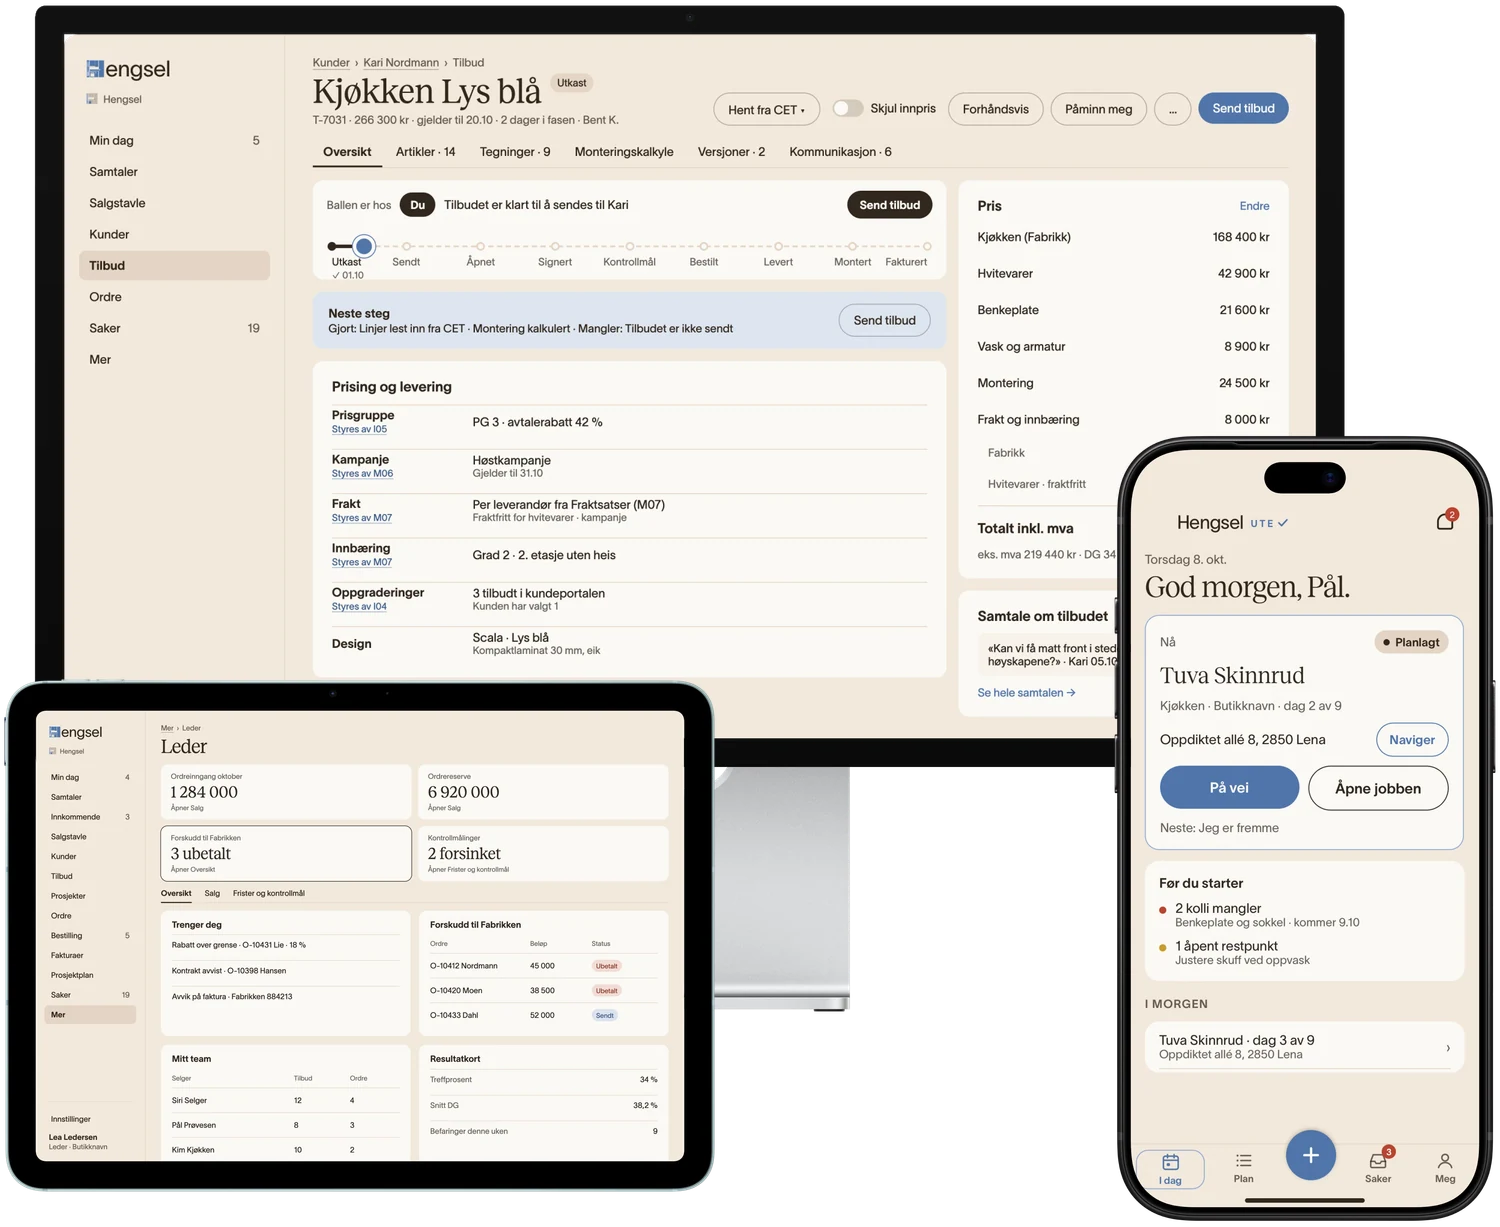
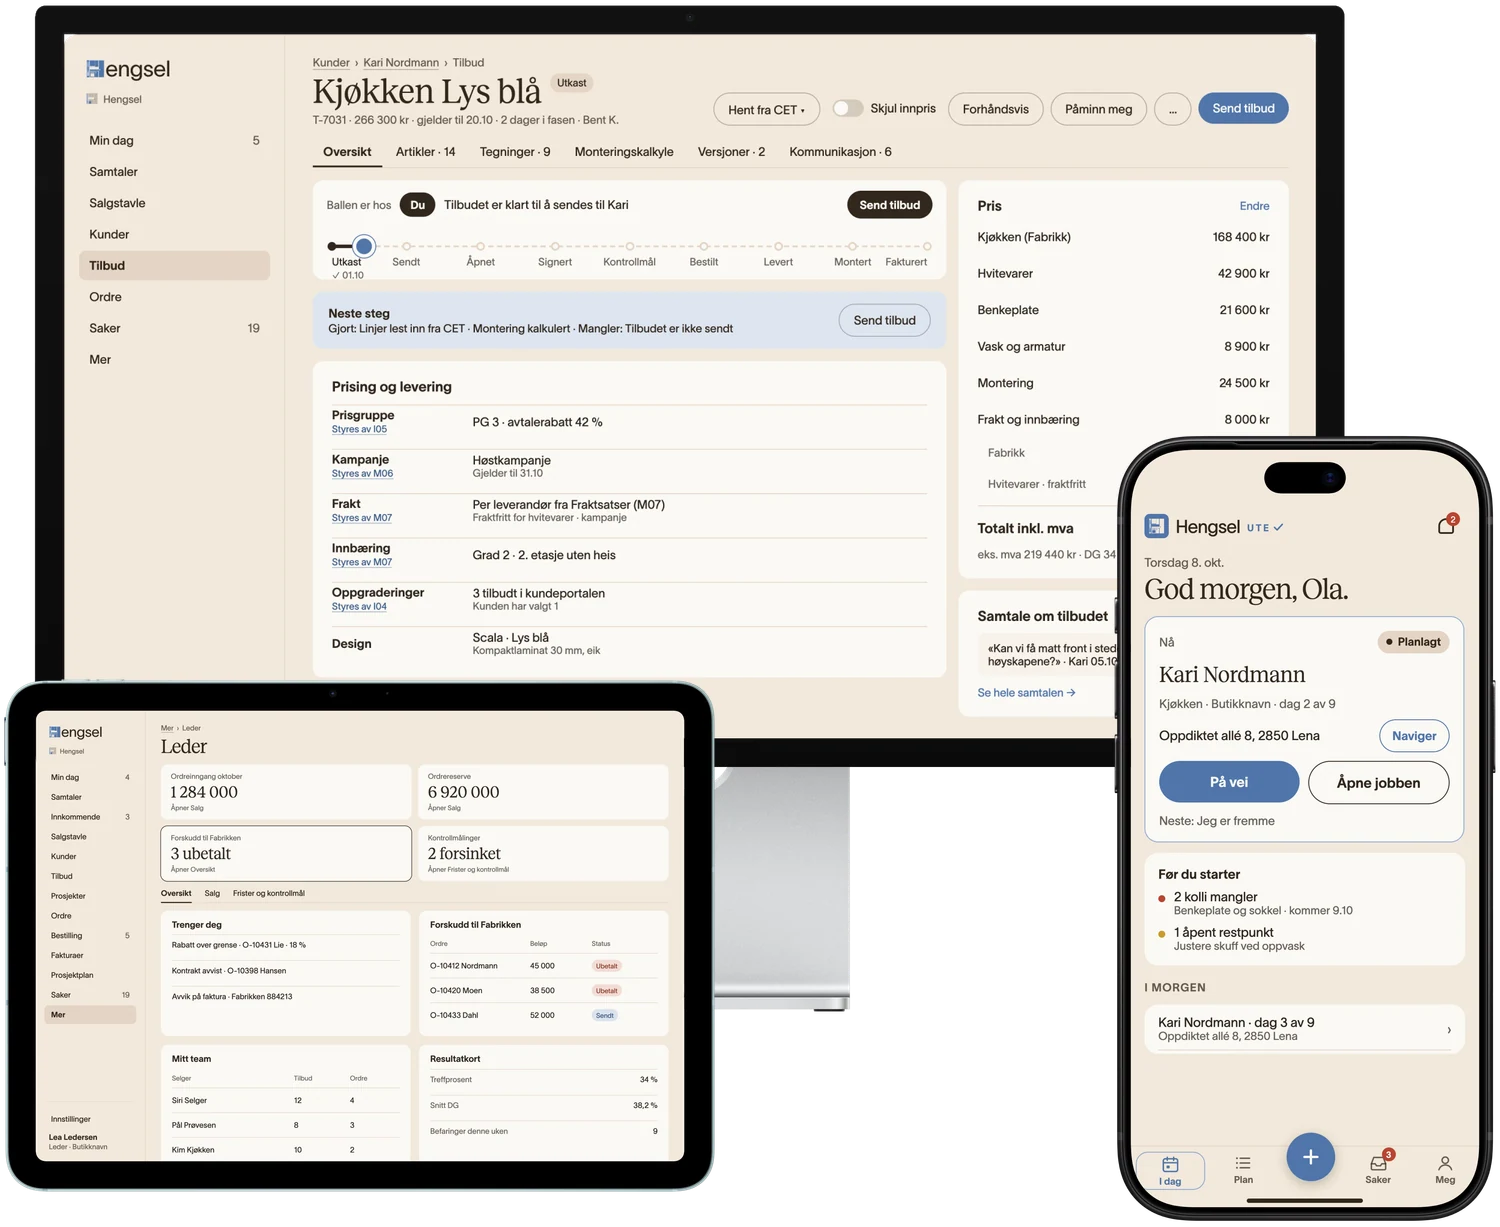
vis: pakke v5 (11.10): crm-montasje (montasjeplan), ute-i-dag og ute-ks
Ordrens reise scene 7 viser crm-montasje (v5). Montasjeplanen er tilbake i Prøv CRM («Se montasjeplanen»)
og Firmaleder. ute-i-dag og ute-ks er v5 (Kari Nordmann og Ola, hele logoen).

Claude-Session: https://claude.ai/code/session_01XUX8fkzkTEqWReZM1iEFk5

diff --git a/sites/vis/src/crm/index.html b/sites/vis/src/crm/index.html
@@ -44,12 +44,12 @@
       <li data-k="avvik"><span>1</span>Løs avviket fra leverandøren</li>
       <li data-k="faktura"><span>2</span>Godkjenn eller avvis fraktavviket</li>
       <li data-k="cet"><span>3</span>Importer et tilbud fra CET</li>
-      <li data-k="plan"><span>4</span>Se kontrollmålet</li>
+      <li data-k="plan"><span>4</span>Se montasjeplanen</li>
     </ol>
     <div class="tabs" id="enhet" role="group" aria-label="Enhet"><button type="button" data-e="pc" class="on" aria-pressed="true">PC</button><button type="button" data-e="ipad" aria-pressed="false">iPad</button><button type="button" data-e="tlf" aria-pressed="false">Telefon</button></div>
   </div>
   <div class="enhet" data-enhet="pc">
-    <div class="pc-ramme" id="pc" data-bilder="crm-min-dag,crm-bestilling,crm-tilbud,crm-tilbud-kunde,crm-ordre-kontrollmal" data-alt="Hengsel CRM på PC"><div class="skjermkant"><div class="skjerm"></div></div><span class="stang" aria-hidden="true"></span><span class="fot" aria-hidden="true"></span></div>
+    <div class="pc-ramme" id="pc" data-bilder="crm-min-dag,crm-bestilling,crm-tilbud,crm-tilbud-kunde,crm-montasje" data-alt="Hengsel CRM på PC"><div class="skjermkant"><div class="skjerm"></div></div><span class="stang" aria-hidden="true"></span><span class="fot" aria-hidden="true"></span></div>
   </div>
   <div class="enhet" data-enhet="ipad" hidden>
     <div class="ipad-ramme" id="ipad" data-bilder="crm-ipad-leder,crm-ipad-kontrollmal,crm-ipad-belastninger,crm-ipad-innstillinger" data-alt="Hengsel CRM på iPad: leder, kontrollmål, belastninger og innstillinger"><div class="skjerm"></div></div>

diff --git a/sites/vis/src/firmaleder/index.html b/sites/vis/src/firmaleder/index.html
@@ -55,7 +55,7 @@
     <div class="scene">
       <div class="tabs" id="enhet" role="group" aria-label="Enhet"><button type="button" data-e="pc" class="on" aria-pressed="true">PC</button><button type="button" data-e="ipad" aria-pressed="false">iPad</button><button type="button" data-e="tlf" aria-pressed="false">Telefon</button></div>
       <div class="enhet" data-enhet="pc">
-        <div class="pc-ramme" id="pc" data-bilder="crm-resultater,crm-salgstavla,crm-saker,crm-moduler" data-alt="Hengsel CRM på PC: leder, salg, montasje og belastninger"><div class="skjermkant"><div class="skjerm"></div></div><span class="stang" aria-hidden="true"></span><span class="fot" aria-hidden="true"></span></div>
+        <div class="pc-ramme" id="pc" data-bilder="crm-resultater,crm-salgstavla,crm-montasje,crm-saker,crm-moduler" data-alt="Hengsel CRM på PC: leder, salg, montasje og belastninger"><div class="skjermkant"><div class="skjerm"></div></div><span class="stang" aria-hidden="true"></span><span class="fot" aria-hidden="true"></span></div>
       </div>
       <div class="enhet" data-enhet="ipad" hidden>
         <div class="ipad-ramme" id="ipad" data-bilder="crm-ipad-leder,crm-ipad-belastninger" data-alt="Hengsel CRM på iPad: leder og belastninger"><div class="skjerm"></div></div>

diff --git a/sites/vis/src/firmaleder/side.js b/sites/vis/src/firmaleder/side.js
@@ -7,8 +7,8 @@ Skjermbilder.guide({guide:$('guide'),reset:$('reset'),velger:velger,forste:'pc',
   start:function(){$('log').innerHTML='';log('Montasjeleder','sendte jobben LI-10087 til Demo Montasje. Svarfrist 48 timer.')},
   steg:{
     se:{enhet:'pc',vis:[V.pc,0]},
-    svar:{enhet:'pc',vis:[V.pc,2],logg:[['Hengsel','Demo Montasje <b>aksepterte</b> jobben LI-10087.'],['CRM','Montasjeplanen viser jobben som akseptert. Montør mangler fortsatt.']]},
-    mont:{enhet:'pc',vis:[V.pc,1],logg:[['Hengsel','Tomas K. er satt på jobben og har fått varsel.'],['CRM','Ordre 10087 er nå <b>Klar for montør</b>. Selgeren ser hvem som kommer.']]},
-    uke:{enhet:'pc',vis:[V.pc,1]}
+    svar:{enhet:'pc',vis:[V.pc,3],logg:[['Hengsel','Demo Montasje <b>aksepterte</b> jobben LI-10087.'],['CRM','Montasjeplanen viser jobben som akseptert. Montør mangler fortsatt.']]},
+    mont:{enhet:'pc',vis:[V.pc,2],logg:[['Hengsel','Tomas K. er satt på jobben og har fått varsel.'],['CRM','Ordre 10087 er nå <b>Klar for montør</b>. Selgeren ser hvem som kommer.']]},
+    uke:{enhet:'pc',vis:[V.pc,2]}
   }});
 })();

diff --git a/sites/vis/src/reise/index.html b/sites/vis/src/reise/index.html
@@ -127,7 +127,7 @@
   <main class="stage" id="stage">
     <section class="card pane" aria-label="Det selgeren ser">
       <div class="pane-h"><h2 class="eyebrow">Selgeren ser</h2><span id="where"></span></div>
-      <div class="enhet" data-enhet="pc"><div class="pc-ramme" id="pc" data-bilder="crm-tilbud,crm-tilbud-kunde,crm-ordre-kontrollmal,crm-etterkalkyle" data-ingen-nav data-alt="Hengsel CRM på PC"><div class="skjermkant"><div class="skjerm"></div></div><span class="stang" aria-hidden="true"></span><span class="fot" aria-hidden="true"></span></div></div>
+      <div class="enhet" data-enhet="pc"><div class="pc-ramme" id="pc" data-bilder="crm-tilbud,crm-tilbud-kunde,crm-ordre-kontrollmal,crm-montasje,crm-etterkalkyle" data-ingen-nav data-alt="Hengsel CRM på PC"><div class="skjermkant"><div class="skjerm"></div></div><span class="stang" aria-hidden="true"></span><span class="fot" aria-hidden="true"></span></div></div>
       <div class="order" hidden>
         <div class="order-h"><b id="ohT"></b><small id="ohS"></small></div>
         <div class="rows" id="rows"></div>

diff --git a/sites/vis/src/reise/side.js b/sites/vis/src/reise/side.js
@@ -5,7 +5,7 @@
   var cur=1,playing=false,timers=[],anims=[],nodes=[],autoT=null;
   /* Skjermbilde per scene (CRM_v4, alle på PC): tegning → tilbudslista, tilbud/signering → tilbud og kunde, bestilling/bekreftelse/endring →
      ordre og kontrollmål, levering og montasje → Mer › Montasje › Kontrollmål, faktura → etterkalkyle for én ordre */
-  var V=Skjermbilder.alle(),BILDE=[['pc',0],['pc',1],['pc',1],['pc',2],['pc',2],['pc',2],['pc',2],['pc',3]];
+  var V=Skjermbilder.alle(),BILDE=[['pc',0],['pc',1],['pc',1],['pc',2],['pc',2],['pc',2],['pc',3],['pc',4]];
   function bilde(n){var b=BILDE[n-1];[].forEach.call(document.querySelectorAll('.pane [data-enhet]'),function(w){w.hidden=w.dataset.enhet!==b[0]});V[b[0]].vis(b[1])}
 
   var HEAD_LI={t:'Ordre 10087',s:'Hanne Liksomlien · Lillehammer · montasje uke 46'};

diff --git a/sites/vis/README.md b/sites/vis/README.md
@@ -8,13 +8,13 @@ Alle skjermbilder av løsningen på vis.hengsel.no kommer fra **designfilene i C
 
 | Rom | Studio Display | iPad | iPhone |
 |---|---|---|---|
-| Prøv CRM | `crm-min-dag` → `crm-bestilling` → `crm-tilbud` → `crm-tilbud-kunde` → `crm-ordre-kontrollmal` (steg 1 / 2 / 3 / 4 = bilde 1 / 2 / 4 / 5; «Se kontrollmålet» viser `crm-ordre-kontrollmal`) | `crm-ipad-leder` → `crm-ipad-kontrollmal` → `crm-ipad-belastninger` → `crm-ipad-innstillinger` | `crm-tlf-ordre` |
-| Firmaleder | `crm-resultater` → `crm-salgstavla` → `crm-saker` → `crm-moduler` (steg 1 = bilde 1, 2 = 3, 3 og 4 = 2) | `crm-ipad-leder`, `crm-ipad-belastninger` | `crm-tlf-min-dag`, `crm-tlf-kundekort` |
+| Prøv CRM | `crm-min-dag` → `crm-bestilling` → `crm-tilbud` → `crm-tilbud-kunde` → `crm-montasje` (steg 1 / 2 / 3 / 4 = bilde 1 / 2 / 4 / 5; «Se montasjeplanen» viser `crm-montasje`, v5) | `crm-ipad-leder` → `crm-ipad-kontrollmal` → `crm-ipad-belastninger` → `crm-ipad-innstillinger` | `crm-tlf-ordre` |
+| Firmaleder | `crm-resultater` → `crm-salgstavla` → `crm-montasje` → `crm-saker` → `crm-moduler` (steg 1 = bilde 1, 2 = 4, 3 og 4 = 3) | `crm-ipad-leder`, `crm-ipad-belastninger` | `crm-tlf-min-dag`, `crm-tlf-kundekort` |
 | Montørappen (Hengsel Ute) | – | `ute-ipad-i-dag`, `ute-ipad-ks` | `ute-i-dag` → `ute-jobb-under` → `ute-ks` → `ute-ks-kamera` → `ute-avvik` → `ute-punkter` → `ute-punktkort` → `ute-ferdig` → `ute-typeskilt` (steg: 2, 3, 5, 8) |
 | Tegningen | `crm-mal-skisser` (steg 4) | `ute-ipad-bildeverktoy` (steg 3) | `ute-laser` (steg 1, 2, 5) |
 | Kundens Min side | PC-bryter: `kundeportal-pc` → `crm-tilbud-kunde` (v4) | – | Mobil-bryter: `kundeportal-k03` → `portal-tilbud` → `k06` → `k08` → `portal-levering` → `portal-montering` → `portal-fdv`; stegene viser k06 (tilvalg), k08 (godkjenn), levering (K10) og FDV (K14, «Meld en feil»), PC følger med |
 | Kundens reise | – | – | `kundeportal-k03` → `portal-tilbud` → `k06` → `k08` i karusellen; stegene viser k03 (1), k08 (2, kjøpsavtalen), k06 (3–4, oppgraderinger), `portal-levering` (5), `portal-montering` (6), `portal-fdv` (7–8); varselet glir inn oppå |
-| Ordrens reise («Selgeren ser», alle på PC) | scene 1 `crm-tilbud`, 2–3 `crm-tilbud-kunde`, 4–6 `crm-ordre-kontrollmal`, 7 `crm-ordre-kontrollmal` (nabobildet), 8 `crm-etterkalkyle` | – | – |
+| Ordrens reise («Selgeren ser», alle på PC) | scene 1 `crm-tilbud`, 2–3 `crm-tilbud-kunde`, 4–6 `crm-ordre-kontrollmal`, 7 `crm-montasje` (v5), 8 `crm-etterkalkyle` | – | – |
 | Romkort og flater på forsiden | ferdig sammensatte bilder av enhet + skjermbilde (`src/img/rom-*.webp`, `flate-*.webp`, `hero.webp`), se «Apple-rammer» |  |  |
 
 ### Apple-rammer (pakke 10.10: `CRM_v4.zip`, `INSTRUKS.md`)
@@ -30,7 +30,7 @@ Alle skjermbilder vises i Apples Product Bezels (`src/assets/rammer/*.webp`, gje
 
 - Rammene er minst 200 px høye, også på mobil (de faller ikke lenger bort). Tekst står ved siden av, ikke oppå. Flere enheter sammen i riktig størrelsesforhold (hero: telefonen er ca. 40 % av Studio Display-rammens høyde).
 - Romkort og flater på forsiden er ferdige bilder (`scripts/lib/rammer.mjs`): `npm run rammer:vis` (rom og flater med skjermbilder fra designfilene) og `npm run skjermbilder:vis` (rom uten: rommet selv i Studio Display). Kortbildet er 4:3 i `--soft` og viser hele enheten (3 kort i bredden på PC, 2 på iPad, 1 på mobil); flatene «Slik henger det sammen» er 2 i bredden. Dokumentene (`/dokumenter/`) er A4-ark uten ramme.
-- Pakke v3 (11.10, `delt/pakke-v3` på grenen `pakke-v3`) erstatter v1 og v2: `pc/` (2880 × 1800, brukes i både Studio Display og MacBook, så MacBook-bildene har ikke lenger prefikset `mb-`), `ios/` (iPhone 1206 × 2622 uten statuslinje, `ute-typeskilt` er 1170 × 2532) og `crm-ipad-*` (2360 × 1640, 1,44:1). Bildene som ikke er med i v3 (`crm-tilbud-kunde`, `crm-ordre-kontrollmal`, `crm-moduler`, `crm-mal-skisser`, `portal-*`, `crm-tlf-*`, `ute-ipad-*`) er fra v2 eller forrige eksport. Pakke v4 (11.10, `delt/pakke-v4`) erstatter `crm-tilbud`, `crm-tilbud-kunde`, `crm-ordre-kontrollmal` og `portal-tilbud` og legger til `kundeportal-pc`, `portal-levering` (K10), `portal-montering` (K12), `portal-fdv` (K14) og `ute-ipad-bildeverktoy` (2360 × 1640). De gamle portalbildene (`portal-*` på PC og `portal-tlf-*`) og `kundeportal-k04` (= `portal-tilbud`) er fjernet, og `crm-montasje` (v3, viser kontrollmål) er ikke brukt.
+- Pakke v3 (11.10, `delt/pakke-v3` på grenen `pakke-v3`) erstatter v1 og v2: `pc/` (2880 × 1800, brukes i både Studio Display og MacBook, så MacBook-bildene har ikke lenger prefikset `mb-`), `ios/` (iPhone 1206 × 2622 uten statuslinje, `ute-typeskilt` er 1170 × 2532) og `crm-ipad-*` (2360 × 1640, 1,44:1). Bildene som ikke er med i v3 (`crm-tilbud-kunde`, `crm-ordre-kontrollmal`, `crm-moduler`, `crm-mal-skisser`, `portal-*`, `crm-tlf-*`, `ute-ipad-*`) er fra v2 eller forrige eksport. Pakke v4 (11.10, `delt/pakke-v4`) erstatter `crm-tilbud`, `crm-tilbud-kunde`, `crm-ordre-kontrollmal` og `portal-tilbud` og legger til `kundeportal-pc`, `portal-levering` (K10), `portal-montering` (K12), `portal-fdv` (K14) og `ute-ipad-bildeverktoy` (2360 × 1640). De gamle portalbildene (`portal-*` på PC og `portal-tlf-*`) og `kundeportal-k04` (= `portal-tilbud`) er fjernet, og `crm-montasje` (v3, viser kontrollmål) er ikke brukt. Pakke v5 (11.10, `delt/pakke-v5`) legger til `crm-montasje` (Mer › Montasje › Montasjeplan, uke 42), `ute-i-dag` og `ute-ks` (Kari Nordmann og Ola, hele logoen, uten den buede streken). Det gamle v3-bildet av `crm-montasje` (kontrollmål) er erstattet. Andre ute-bilder fra fil 36 (`ute-jobb-under`, `ute-laser`, `ute-punkter`, `ute-punktkort`, `ute-avvik`, `ute-ferdig`, `ute-ks-kamera`, `ute-typeskilt`) kan ha de gamle navnene.
 - Ikke brukt: `iphone-aapen` (én skjerm 7:10, venter på egne bilder) og de nye rammene `iphone-18-liggende`, `iphone`, `iphone-liggende`, `iphone-aapen-liggende` og `ipad-staaende` (ingen bilder til dem). `kundeportal-k03/k06/k08` brukes i Kundens reise, Min side, romkort og flater.
 
 - `ute-*`-bildene kommer fra `ute-vis.zip` (10.10, fra designfilene, uten merkenavn): iPhone 780 × 1688 (390 × 844 i 2×) og `ute-ipad-bildeverktoy` 2360 × 1640 (1180 × 820). De har egen statuslinje (09.41), dynamic island og hjemindikator, så rammene (`.tlf.hel`, iPad) legger ikke på noen: telefonrammen gir plass til hele 390 × 844-skjermen. CRM-bildene fra `crm-sju-vis.zip` (1440 bred, 2×): `crm-min-dag`, `crm-bestilling`, `crm-montasje`, `crm-etterkalkyle`, `crm-salgstavla`, `crm-saker`, `crm-resultater` (2880 × 1800) og `crm-min-dag-800` (Min dag i iPad-ramme; den tegnede kanten på 24 px er beskåret bort, 2360 × 1640, brukt som første iPad-bilde i Prøv CRM). `crm-leder-oversikt` og `crm-leder-start` er slettet (erstattet av `crm-resultater` og `crm-salgstavla`).
